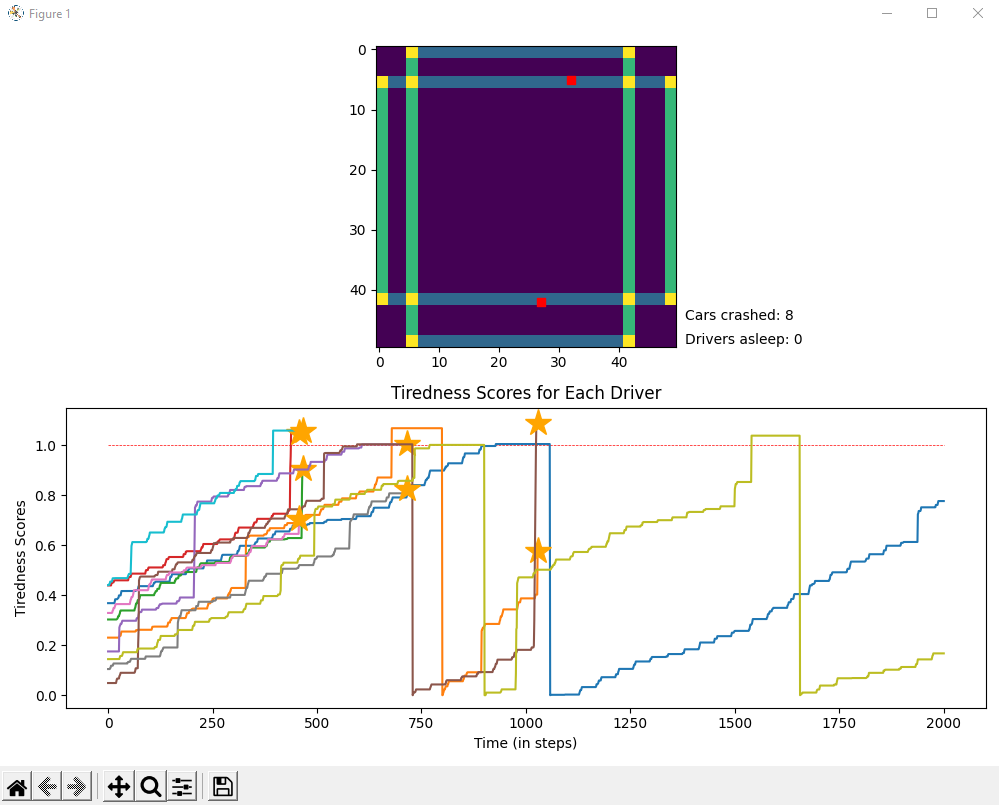
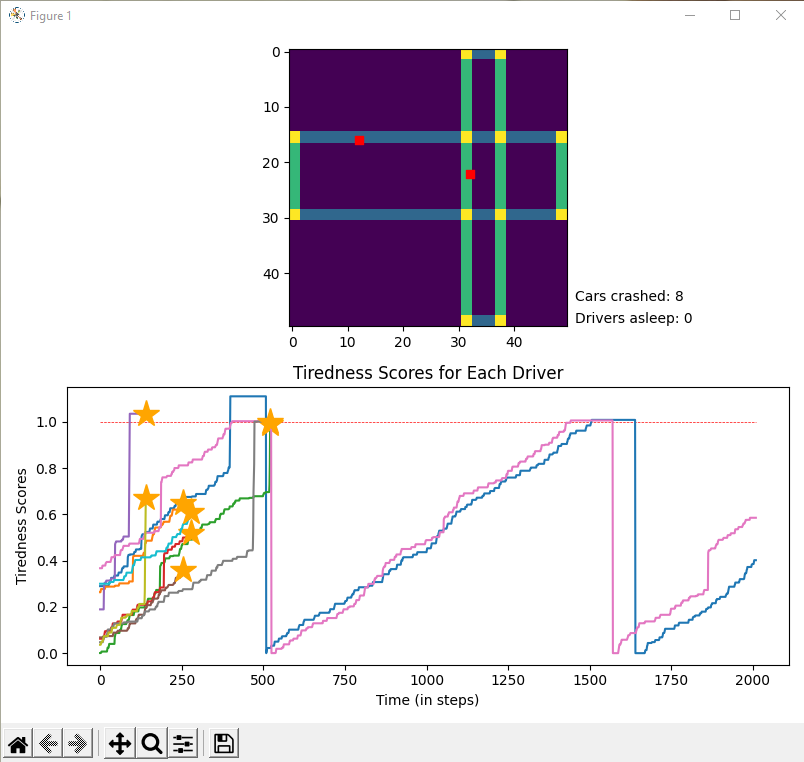
Adjusting screenshots for default parameters

diff --git a/ABM_traffic_simulator.py b/ABM_traffic_simulator.py
@@ -189,7 +189,8 @@ def observe():
 
     plt.subplot(2, 1, 2)
     plt.cla()
-    
+
+    plt.plot([0, steps], [1, 1], '--', color="red", linewidth=0.5)
     for i in range(0, number_drivers):
         driver = drivers[i]
         if i in tiredness_scores:
